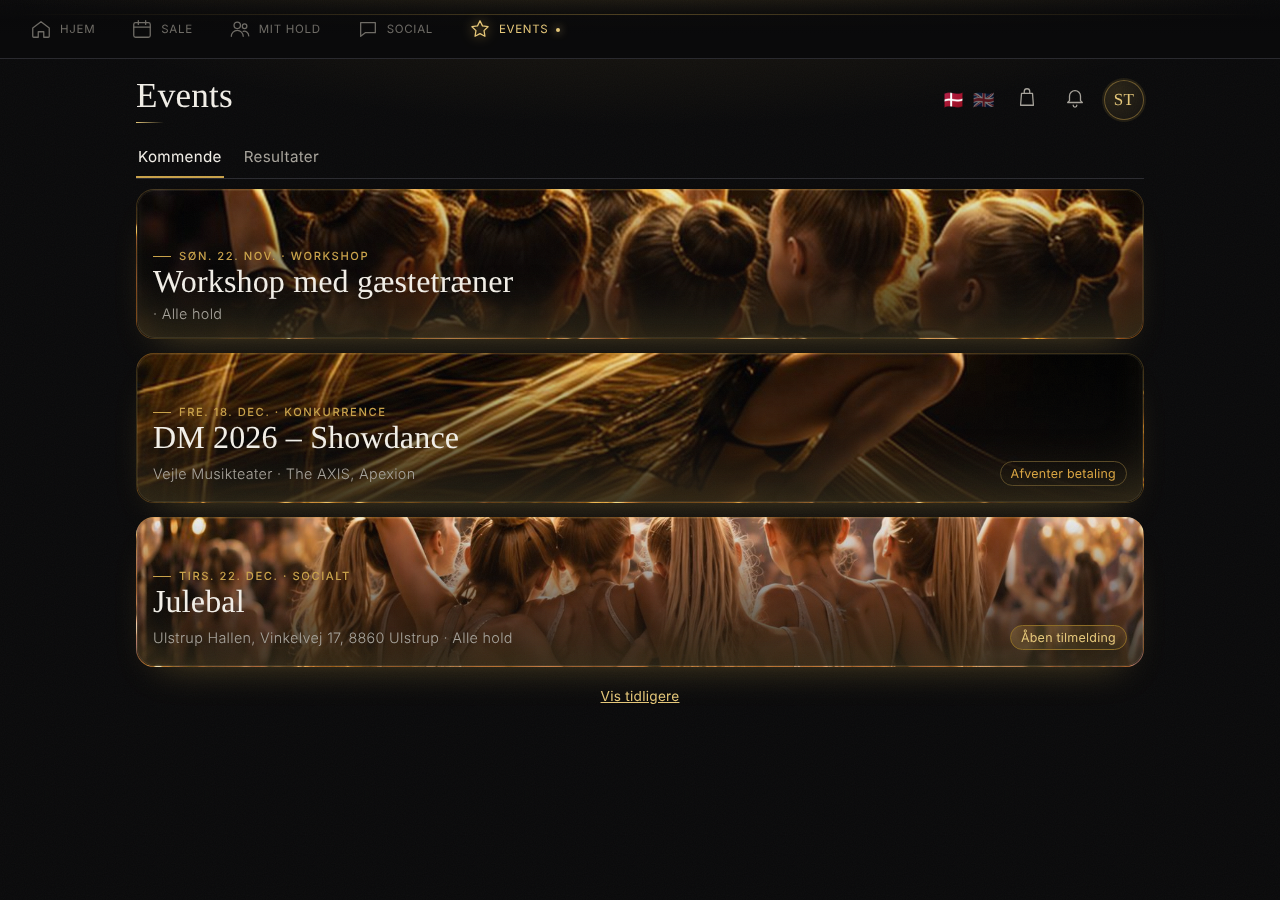
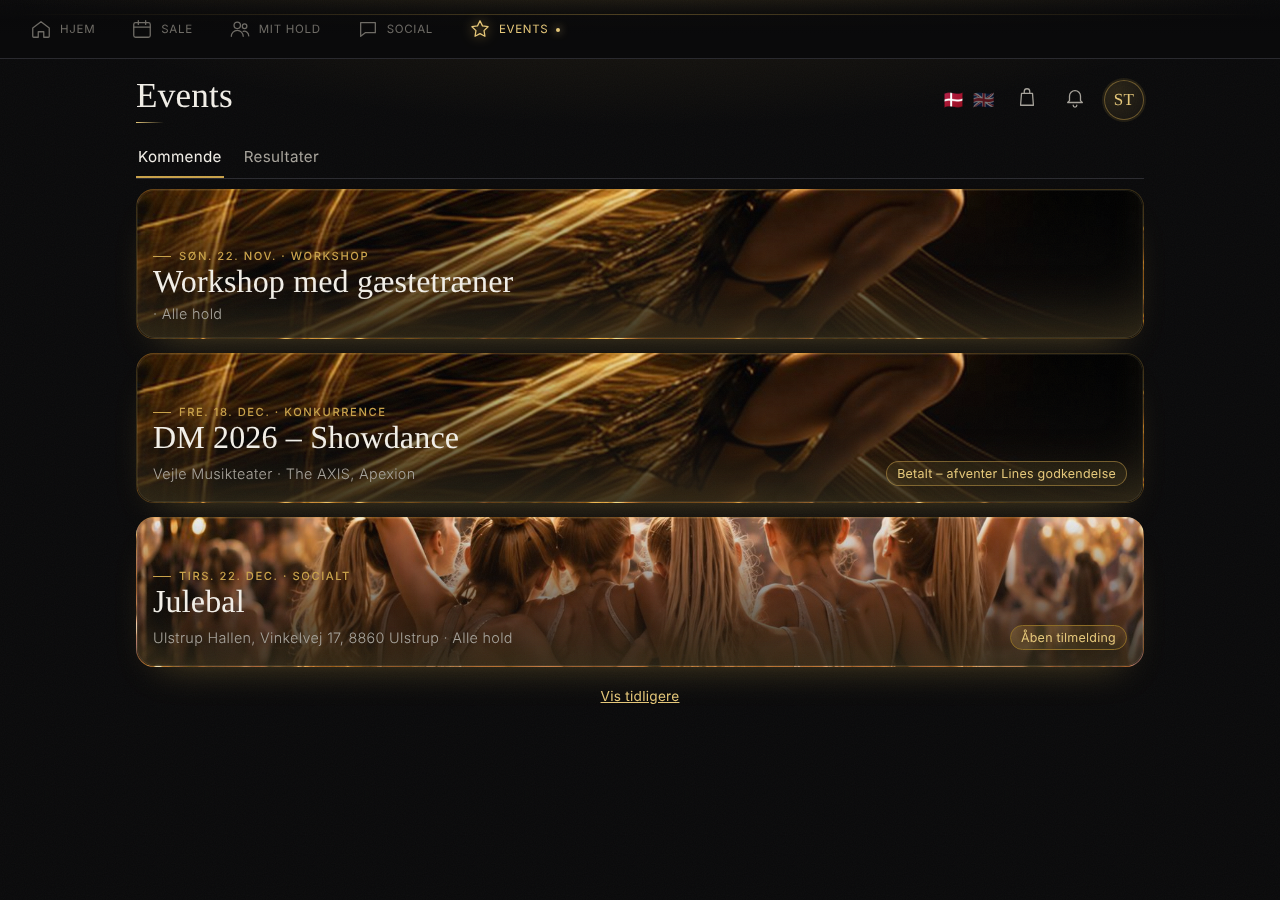
Events: three sign-up states – unpaid / paid awaiting confirmation / confirmed (0044)
Claude-Session: https://claude.ai/code/session_01GGpukzb1UrCDBdg1Js3mqC

Changed region(s): [[0.0938, 0.1867, 0.9062, 0.3733], [0.6875, 0.4978, 0.875, 0.56]]

diff --git a/src/domain/llds/screens/Events.tsx b/src/domain/llds/screens/Events.tsx
@@ -76,7 +76,7 @@ function EventsList({ admin }: { admin?: boolean }) {
         <button key={e.id} className="hero tap photo evcard" data-testid="event" onClick={() => setOpen(e)} style={{ backgroundImage: `url(${catalogUrl(e.image_key) ?? artFor(e.id)})` }}>
           <div><div className="eyebrow">{dateLabel(e.starts_at)} · {t(`events.kind.${e.kind}`)}</div><h2 className="display">{e.title}</h2>
             <div className="row between"><span className="small muted">{e.place ?? ""}{e.team_names?.length ? ` · ${e.team_names.join(", ")}` : ` · ${t("events.allTeams")}`}</span>
-              {e.mySignups && e.mySignups > 0 ? (e.myUnpaid ? <span className="chip warn small" data-testid="ev-awaiting">{t("events.awaitingPayment")}</span> : <span className="chip ok small">{t("events.on")}</span>) : relevant && (e.signup_deadline || e.price_dkk) ? <span className="chip gold small">{t("events.openSignup")}</span> : null}</div></div>
+              {e.mySignups && e.mySignups > 0 ? (e.myUnpaid ? <span className="chip warn small" data-testid="ev-awaiting">{t("events.unpaid")}</span> : e.myClaimed ? <span className="chip small pend" data-testid="ev-claimed">{t("events.claimed")}</span> : <span className="chip ok small">{t("events.on")}</span>) : relevant && (e.signup_deadline || e.price_dkk) ? <span className="chip gold small">{t("events.openSignup")}</span> : null}</div></div>
         </button>); })}
       {!events.length && <p className="muted">{t("events.empty")}</p>}
       <button className="linklike small" onClick={() => setPast(!past)}>{past ? t("events.hidePast") : t("events.showPast")}</button>
@@ -115,18 +115,18 @@ export function EventSheet({ event, staff, onClose, onEdit, onChanged, toast }: 
       {hats.length > 0 && (
         <div className="card" style={{ margin: 0 }}><div className="eyebrow">{t("events.signup")}</div>
           {hats.map((p) => { const s = mine(p.id); return (
-            <div key={p.id} className="row between"><span>{p.first_name}{s ? <span className={"chip small " + (s.paid || !event.price_dkk ? "ok" : "warn")} style={{ marginLeft: 8 }}>{s.paid || !event.price_dkk ? t("events.on") : t("events.awaitingPayment")}</span> : null}</span>
-              <div className="row">{s && event.price_dkk && !s.paid && <button className="small" onClick={() => setPay(p.id)}>{t("events.payBtn")}</button>}
+            <div key={p.id} className="row between"><span>{p.first_name}{s ? <span className={"chip small " + (s.paid || !event.price_dkk ? "ok" : s.claimed_paid_at ? "pend" : "warn")} style={{ marginLeft: 8 }}>{s.paid || !event.price_dkk ? t("events.on") : s.claimed_paid_at ? t("events.claimed") : t("events.unpaid")}</span> : null}</span>
+              <div className="row">{s && event.price_dkk && !s.paid && !s.claimed_paid_at && <button className="small" onClick={() => setPay(p.id)}>{t("events.payBtn")}</button>}
                 <button className={s ? "ghost small" : "small"} data-testid="signup" disabled={deadlinePassed && !s} onClick={() => void toggle(p.id)}>{s ? t("events.withdraw") : t("events.signUp")}</button></div></div>); })}
           {deadlinePassed && <p className="tiny">{t("events.deadlinePassed")}</p>}
         </div>
       )}
       {staff && (
         <div className="card" style={{ margin: 0 }}><div className="row between"><span className="eyebrow">{t("events.signups", { n: signups.length })}{event.price_dkk ? ` · ${t("events.paidN", { n: paid })}` : ""}</span>{onEdit && <button className="linklike small" onClick={onEdit}>{t("common.edit")}</button>}</div>
-          <div className="list">{signups.map((s) => <div key={s.person_id} className="item" style={{ padding: "6px 0" }}><span className="grow">{s.person_name}<span className="tiny"> · {s.team_name ?? ""}</span></span>{event.price_dkk ? <button className={"chip small" + (s.paid ? " ok" : " warn")} onClick={async () => { await api.setSignupPaid(event.id, s.person_id, !s.paid); void load(); }}>{s.paid ? t("events.paid") : t("events.markPaid")}</button> : null}</div>)}</div>
+          <div className="list">{signups.map((s) => <div key={s.person_id} className="item" style={{ padding: "6px 0" }}><span className="grow">{s.person_name}<span className="tiny"> · {s.team_name ?? ""}</span></span>{event.price_dkk ? <button className={"chip small" + (s.paid ? " ok" : s.claimed_paid_at ? " pend" : " warn")} onClick={async () => { await api.setSignupPaid(event.id, s.person_id, !s.paid); void load(); }}>{s.paid ? t("events.paid") : s.claimed_paid_at ? t("events.claimedShort") : t("events.markPaid")}</button> : null}</div>)}</div>
         </div>
       )}
-      {pay && event.price_dkk && <PaySheet amount={event.price_dkk} reference={`${event.title.slice(0, 20)} ${hats.find((h) => h.id === pay)?.first_name ?? ""}`} title={t("events.payTitle")} onClose={() => setPay(null)} onPaid={async () => { setPay(null); toast(t("events.paidClaimed")); }} />}
+      {pay && event.price_dkk && <PaySheet amount={event.price_dkk} reference={`${event.title.slice(0, 20)} ${hats.find((h) => h.id === pay)?.first_name ?? ""}`} title={t("events.payTitle")} onClose={() => setPay(null)} onPaid={async () => { const pid = pay; setPay(null); try { await api.claimSignupPaid(event.id, pid); } catch { /* ignore */ } toast(t("events.paidClaimed")); await load(); onChanged(); }} />}
     </Sheet>
   );
 }

diff --git a/src/core/api/mock-shop.ts b/src/core/api/mock-shop.ts
@@ -47,7 +47,7 @@ export function shopOps(get: () => { Y: ShopState; persons: Person[]; membership
     async listEvents(includePast = false): Promise<Event[]> {
       const g = get(); const cut = new Date(Date.now() - 864e5).toISOString();
       const mine = myPeople();
-      return g.Y.events.filter((e) => includePast || e.starts_at >= cut).map((e) => ({ ...e, mySignups: g.Y.signups.filter((s) => s.event_id === e.id && mine.includes(s.person_id)).length, myUnpaid: e.price_dkk ? g.Y.signups.filter((s) => s.event_id === e.id && mine.includes(s.person_id) && !s.paid).length : 0, signups: g.Y.signups.filter((s) => s.event_id === e.id).length, team_names: e.team_ids.length ? e.team_ids.map((t) => g.teams.find((x) => x.id === t)?.name ?? "?") : null })).sort((a, b) => a.starts_at.localeCompare(b.starts_at));
+      return g.Y.events.filter((e) => includePast || e.starts_at >= cut).map((e) => ({ ...e, mySignups: g.Y.signups.filter((s) => s.event_id === e.id && mine.includes(s.person_id)).length, myUnpaid: e.price_dkk ? g.Y.signups.filter((s) => s.event_id === e.id && mine.includes(s.person_id) && !s.paid && !s.claimed_paid_at).length : 0, myClaimed: e.price_dkk ? g.Y.signups.filter((s) => s.event_id === e.id && mine.includes(s.person_id) && !s.paid && !!s.claimed_paid_at).length : 0, signups: g.Y.signups.filter((s) => s.event_id === e.id).length, team_names: e.team_ids.length ? e.team_ids.map((t) => g.teams.find((x) => x.id === t)?.name ?? "?") : null })).sort((a, b) => a.starts_at.localeCompare(b.starts_at));
     },
     async saveEvent(i: EventInput, eid?: string) {
       const g = get();
@@ -62,6 +62,7 @@ export function shopOps(get: () => { Y: ShopState; persons: Person[]; membership
       if (on) { const e = g.Y.events.find((x) => x.id === eventId); const tn = g.memberships.filter((m) => m.person_id === personId && e?.team_ids.includes(m.team_id)).map((m) => g.teams.find((t) => t.id === m.team_id)?.name)[0] ?? null; g.Y.signups.push({ event_id: eventId, person_id: personId, person_name: name(personId), team_name: tn, paid: false, created_at: now() }); for (const a of admins()) g.notify(a.id, "signup", `Tilmelding til ${e?.title ?? ""} ✅`, name(personId), { event_id: eventId }); }
       g.save(); g.emit();
     },
+    async claimSignupPaid(eventId: string, personId: string) { const g = get(); const s = g.Y.signups.find((x) => x.event_id === eventId && x.person_id === personId); if (s) s.claimed_paid_at = new Date().toISOString(); g.save(); g.emit(); },
     async setSignupPaid(eventId: string, personId: string, paid: boolean) { const g = get(); const s = g.Y.signups.find((x) => x.event_id === eventId && x.person_id === personId); if (s) s.paid = paid; g.save(); g.emit(); },
 
     async listProducts(all = false): Promise<Product[]> { return get().Y.products.filter((p) => all || p.active).map((p) => ({ ...p, image_url: p.image_path ? (p.image_path.startsWith("http") ? p.image_path : imgs.get(p.image_path) ?? null) : null })); },

diff --git a/src/core/api/supabase-shop.ts b/src/core/api/supabase-shop.ts
@@ -12,10 +12,10 @@ export function supabaseShop(sb: SupabaseClient, fail: Fail, schoolId: () => Pro
       let q = sb.from("event_view").select("*").order("starts_at");
       if (!includePast) q = q.gte("starts_at", new Date(Date.now() - 864e5).toISOString());
       const { data, error } = await q; fail(error);
-      const { data: mine } = await sb.from("event_signup").select("event_id,person_id,paid"); // RLS: my people (+ staff: all)
+      const { data: mine } = await sb.from("event_signup").select("event_id,person_id,paid,claimed_paid_at"); // RLS: my people (+ staff: all)
       const pid = await myPersonId(); const { data: kids } = await sb.from("guardian").select("child_id").eq("parent_id", pid);
       const people = new Set([pid, ...(kids ?? []).map((k) => k.child_id as string)]);
-      return (data ?? []).map((e: Record<string, unknown>) => ({ ...(e as Event), signups: Number(e.signups ?? 0), plan: (e.plan ?? []) as Event["plan"], pack_list: (e.pack_list ?? []) as string[], team_ids: (e.team_ids ?? []) as string[], mySignups: (mine ?? []).filter((s) => s.event_id === e.id && people.has(s.person_id as string)).length, myUnpaid: e.price_dkk ? (mine ?? []).filter((s) => s.event_id === e.id && people.has(s.person_id as string) && !s.paid).length : 0 }));
+      return (data ?? []).map((e: Record<string, unknown>) => ({ ...(e as Event), signups: Number(e.signups ?? 0), plan: (e.plan ?? []) as Event["plan"], pack_list: (e.pack_list ?? []) as string[], team_ids: (e.team_ids ?? []) as string[], mySignups: (mine ?? []).filter((s) => s.event_id === e.id && people.has(s.person_id as string)).length, myUnpaid: e.price_dkk ? (mine ?? []).filter((s) => s.event_id === e.id && people.has(s.person_id as string) && !s.paid && !s.claimed_paid_at).length : 0, myClaimed: e.price_dkk ? (mine ?? []).filter((s) => s.event_id === e.id && people.has(s.person_id as string) && !s.paid && !!s.claimed_paid_at).length : 0 }));
     },
     async saveEvent(i: EventInput, id?: string) {
       const row = { ...i, school_id: await schoolId() };
@@ -28,6 +28,7 @@ export function supabaseShop(sb: SupabaseClient, fail: Fail, schoolId: () => Pro
       if (on) { const { error } = await sb.from("event_signup").upsert({ event_id: eventId, person_id: personId }, { onConflict: "event_id,person_id" }); fail(error); }
       else { const { error } = await sb.from("event_signup").delete().eq("event_id", eventId).eq("person_id", personId); fail(error); }
     },
+    async claimSignupPaid(eventId: string, personId: string) { const { error } = await sb.from("event_signup").update({ claimed_paid_at: new Date().toISOString() }).eq("event_id", eventId).eq("person_id", personId); fail(error); },
     async setSignupPaid(eventId: string, personId: string, paid: boolean) { const { error } = await sb.from("event_signup").update({ paid }).eq("event_id", eventId).eq("person_id", personId); fail(error); },
 
     async listProducts(all = false): Promise<Product[]> {

diff --git a/src/core/api/types.ts b/src/core/api/types.ts
@@ -303,10 +303,10 @@ export type Event = {
   image_key?: string | null;        // catalogue image (public/art/catalog) chosen by the admin; null = automatic
   id: string; title: string; kind: EventKind; starts_at: string; ends_at: string | null; place: string | null; meet_time: string | null;
   team_ids: string[]; team_names: string[] | null; plan: { time: string; text: string }[]; pack_list: string[]; info: string | null;
-  signup_deadline: string | null; price_dkk: number | null; visibility: "private" | "public"; signups: number; created_at: string; mySignups?: number; myUnpaid?: number;   // my/children's sign-ups still awaiting payment
+  signup_deadline: string | null; price_dkk: number | null; visibility: "private" | "public"; signups: number; created_at: string; mySignups?: number; myUnpaid?: number; myClaimed?: number;   // my/children's sign-ups: not yet paid / paid but awaiting Line's confirmation
 };
-export type EventInput = Omit<Event, "id" | "signups" | "team_names" | "created_at" | "mySignups" | "myUnpaid">;
-export type EventSignup = { event_id: string; person_id: string; person_name: string; team_name: string | null; paid: boolean; created_at: string };
+export type EventInput = Omit<Event, "id" | "signups" | "team_names" | "created_at" | "mySignups" | "myUnpaid" | "myClaimed">;
+export type EventSignup = { event_id: string; person_id: string; person_name: string; team_name: string | null; paid: boolean; claimed_paid_at?: string | null; created_at: string };
 
 export type Product = { id: string; name: string; price_dkk: number; sizes: string[]; stock: number | null; image_path: string | null; image_url?: string | null; visibility: "private" | "public"; active: boolean; created_at?: string };
 export type OrderLine = { product_id: string; name: string; size: string | null; qty: number; price_dkk: number };
@@ -326,6 +326,7 @@ export interface Api {
   listSignups(eventId: string): Promise<EventSignup[]>;
   signUp_(eventId: string, personId: string, on: boolean): Promise<void>;
   setSignupPaid(eventId: string, personId: string, paid: boolean): Promise<void>;
+  claimSignupPaid(eventId: string, personId: string): Promise<void>;   // "I have paid" – Line confirms
   /* shop */
   listProducts(all?: boolean): Promise<Product[]>;
   saveProduct(input: Omit<Product, "id" | "image_url"> & { image?: File | null }, id?: string): Promise<void>;

diff --git a/src/styles.css b/src/styles.css
@@ -138,7 +138,7 @@ label.check input { width:20px; height:20px; accent-color:var(--gold); }
 .card.tap { cursor:pointer; } .card.dim { opacity:.6; }
 .check { width:22px; height:22px; border-radius:6px; border:1px solid var(--line); display:grid; place-items:center; flex:none; color:var(--brand-ink); font-size:.8rem; }
 .check.on { background:var(--gold); border-color:var(--gold); }
-.chip.ok { border-color:#3b5a40; color:var(--ok); } .chip.gold { color:var(--gold2); border-color:var(--gold3); }
+.chip.ok { border-color:#3b5a40; color:var(--ok); } .chip.pend { border-color:rgba(201,162,74,.5); color:var(--gold2); background:rgba(201,162,74,.1); } .chip.gold { color:var(--gold2); border-color:var(--gold3); }
 .toggle { display:flex; align-items:center; justify-content:space-between; gap:12px; padding:10px 0; border-bottom:1px solid var(--line); font-size:.95rem; }
 .toggle input { width:20px; height:20px; accent-color:var(--gold); }
 .week { display:grid; grid-template-columns:repeat(auto-fit, minmax(90px, 1fr)); gap:6px; }
